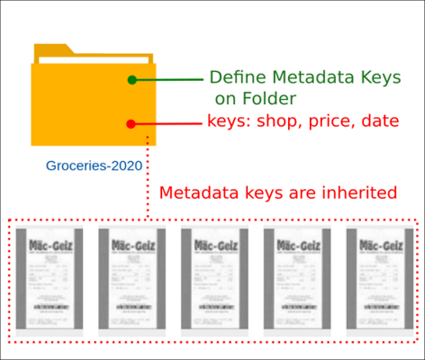
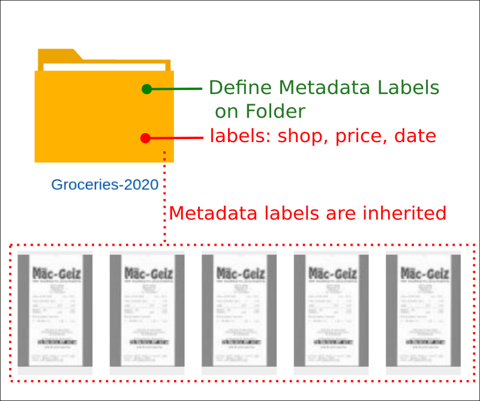
rename metadata key - into labels. I think label is more intuitive name.

diff --git a/docs/source/metadata.rst b/docs/source/metadata.rst
@@ -39,7 +39,7 @@ related files into that folder.
 
 .. note::
 
-    Newly uploaded to Groceries-2020 documents (or moved from different folder) will automatically inherit metadata keys defined on that folder.
+    Newly uploaded to Groceries-2020 documents (or moved from different folder) will automatically inherit metadata labels defined on that folder.
 
 Now all receipts in Groceries-2020 folder can be displayed as lists with price, date and shop information. Isn't now easier to understand when and how much you spent in each case?
 
@@ -48,22 +48,21 @@ Now all receipts in Groceries-2020 folder can be displayed as lists with price, 
    With metadata information associated it is easier to navigate receipt documents
 
 
-Keys, Values and Types
+Labels, Values and Types
 ~~~~~~~~~~~~~~~~~~~~~~~~~
 
-Metadata **key** is the *repetitive* or *common*  information you are interested
-about. In groceries example shop, date and price are the keys. Other metadata
-keys examples would be a Tax-ID from tax declaration documents, Client-ID from
+Metadata **label** is the *repetitive* or *common*  information you are interested
+about. In groceries example shop, date and price are labels. Other metadata
+labels examples would be a Tax-ID from tax declaration documents, Client-ID from
 invoice documents and License-ID from pool of licenses you are managing.
 
  .. note::
 
-    Another convenient term for metadata keys would be - metadata label. Because
-    metadata key acts like a label and is sort of label.
+    Internally metadata labels are called - keys.
 
-Metadata **value** is, well, the value of specific key. Continuing with
+Metadata **value** is, well, the value of specific label. Continuing with
 groceries examples the "10,99", "3,69", "29,00" are all metadata values for
-key which we named - "price". Groceries-2020 folder has only 3 keys, but can
+labels which we named - "price". Groceries-2020 folder has only 3 labels, but can
 have any number of values.
 
 Metadata can be of specific **type**. Metadata can express monetary
